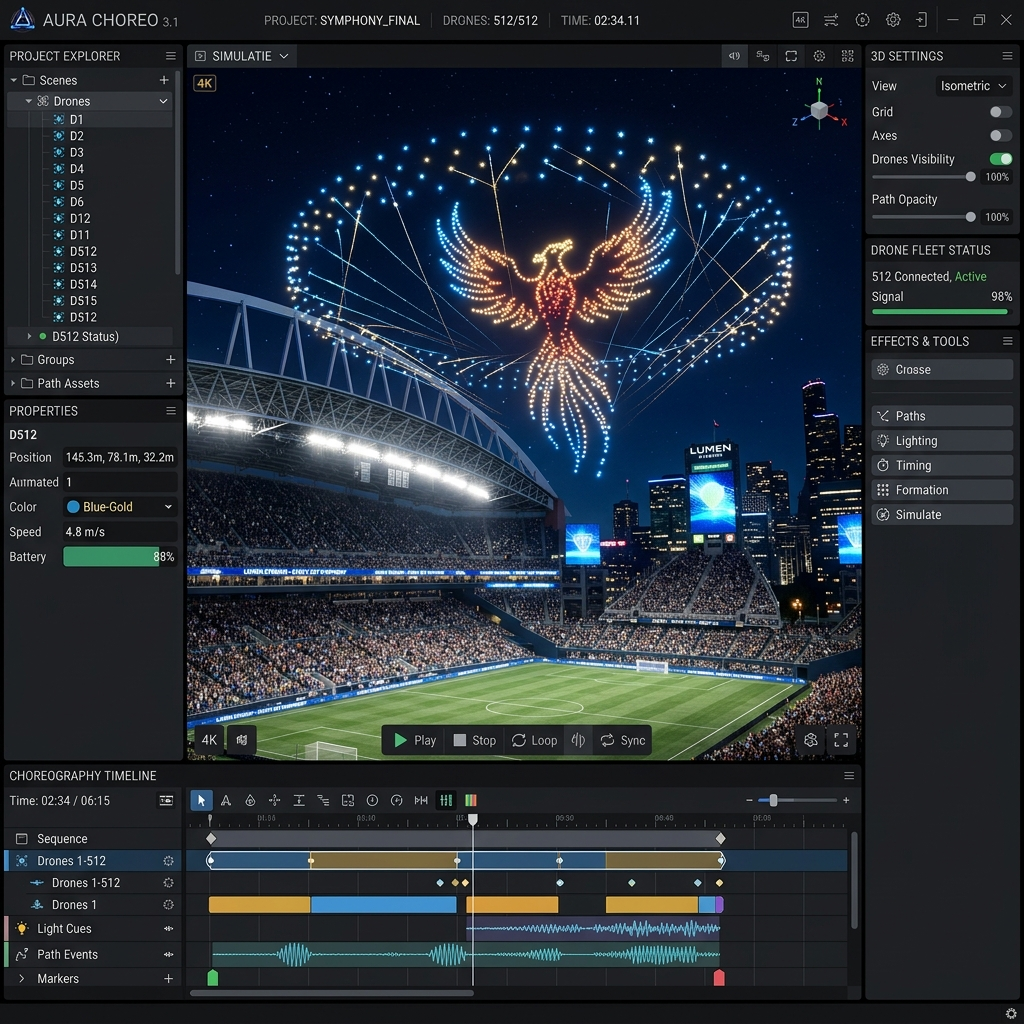
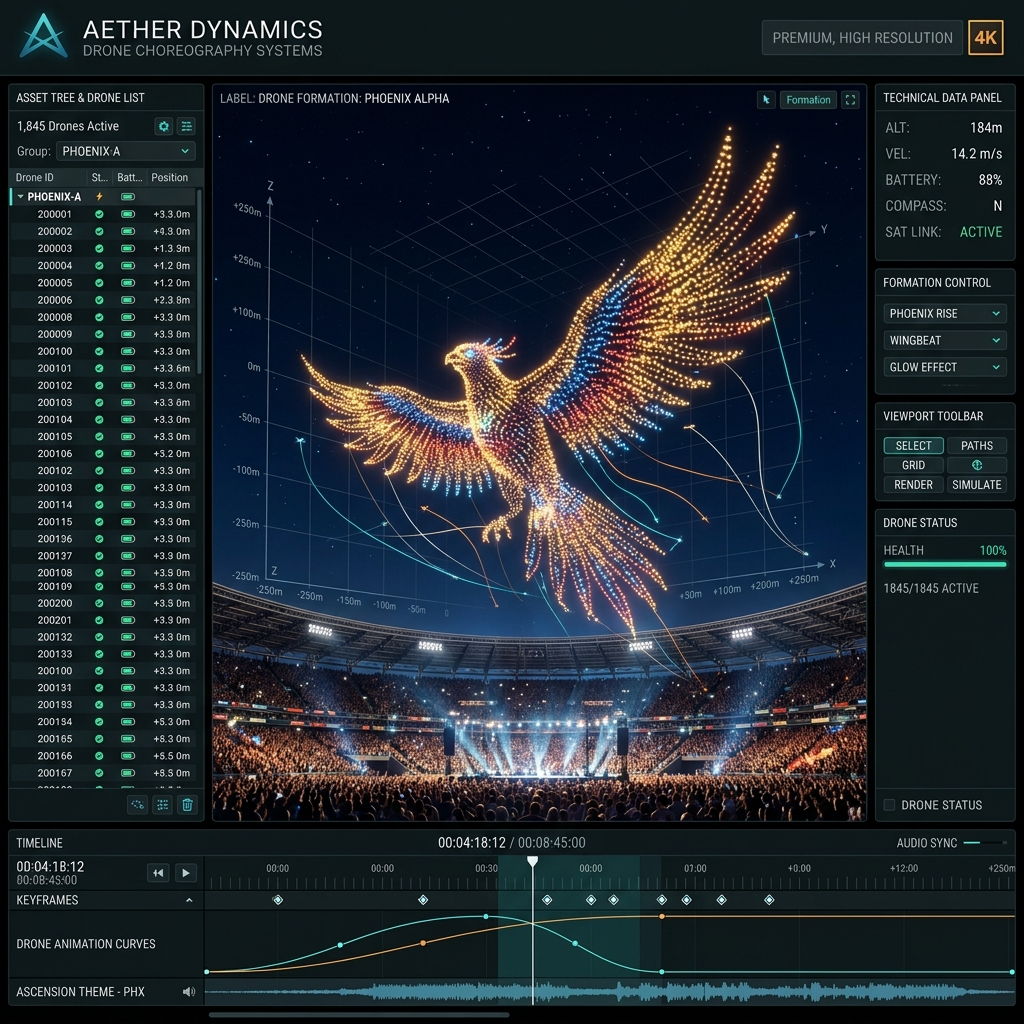
4

diff --git a/index-2.html b/index-2.html
@@ -207,29 +207,8 @@
                     <p class="text-gray-400 mb-12 max-w-2xl mx-auto">See exactly what your audience will see. We provide frame-by-frame 3D renders before a single drone takes flight.</p>
                 </div>
                 
-                <div class="glass-card rounded-3xl p-6 md:p-10 max-w-4xl mx-auto relative overflow-hidden group order-1 md:order-2 mb-12 md:mb-0">
-                    <div class="absolute inset-0 z-0">
-                        <img src="assets/images/simulation-ui.png" alt="Simulation UI" class="w-full h-full object-cover opacity-60 group-hover:scale-105 transition-transform duration-1000">
-                        <div class="absolute inset-0 bg-gradient-to-t from-[#050508] via-transparent to-transparent"></div>
-                    </div>
-                    <div class="relative z-10 grid grid-cols-2 md:grid-cols-4 gap-4 mt-32 md:mt-48">
-                        <div class="glass-panel p-4 rounded-xl border border-white/10 backdrop-blur-md reveal">
-                            <div class="text-[#00f0ff] font-bold text-lg mb-1">99.9%</div>
-                            <div class="text-xs text-gray-400 uppercase tracking-widest">Accuracy</div>
-                        </div>
-                        <div class="glass-panel p-4 rounded-xl border border-white/10 backdrop-blur-md reveal" style="transition-delay: 100ms;">
-                            <div class="text-[#8a2be2] font-bold text-lg mb-1">4K</div>
-                            <div class="text-xs text-gray-400 uppercase tracking-widest">Resolution</div>
-                        </div>
-                        <div class="glass-panel p-4 rounded-xl border border-white/10 backdrop-blur-md reveal" style="transition-delay: 200ms;">
-                            <div class="text-[#ff00ff] font-bold text-lg mb-1">Real-time</div>
-                            <div class="text-xs text-gray-400 uppercase tracking-widest">Latency</div>
-                        </div>
-                        <div class="glass-panel p-4 rounded-xl border border-white/10 backdrop-blur-md reveal" style="transition-delay: 300ms;">
-                            <div class="text-white font-bold text-lg mb-1">Infinite</div>
-                            <div class="text-xs text-gray-400 uppercase tracking-widest">Replays</div>
-                        </div>
-                    </div>
+                <div class="glass-card rounded-3xl p-2 max-w-4xl mx-auto relative overflow-hidden group order-1 md:order-2 mb-12 md:mb-0 shadow-[0_0_50px_rgba(0,240,255,0.15)] border border-white/10">
+                    <img src="assets/images/simulation-ui.png" alt="Simulation UI" class="w-full rounded-2xl object-cover hover:scale-105 transition-transform duration-1000">
                 </div>
             </div>
         </section>
@@ -274,6 +253,38 @@
                             <h4 class="text-xl font-bold mb-3 text-white">4K Simulation Previews</h4>
                             <p class="text-gray-500 text-sm">We provide high-fidelity 4K 3D renders of the show during the design phase, giving stakeholders a pixel-perfect preview of the final performance.</p>
                         </div>
+                    </div>
+                </div>
+            </div>
+        </section>
+
+        <!-- New: Pure Text Content Section -->
+        <section class="py-24 relative z-10 bg-[#07070a]">
+            <div class="container mx-auto px-6 max-w-4xl text-center">
+                <div class="reveal">
+                    <h2 class="text-3xl md:text-5xl font-bold mb-8 text-center">A New Medium for <span class="text-gradient">Global Brands</span></h2>
+                    <div class="space-y-6 text-gray-300 text-lg leading-relaxed">
+                        <p>
+                            In an era of digital saturation, where traditional advertising is often ignored, the sky remains the last frontier for truly unmissable marketing. Our enterprise drone shows provide a unique opportunity for brands to capture the collective attention of entire cities, creating shared experiences that resonate far longer than any screen-based advertisement. 
+                        </p>
+                        <p>
+                            By integrating our massive drone fleets with your existing brand identity, we transform corporate logos and messaging into monumental sky-sculptures. This is not just about visibility; it's about association with innovation, scale, and technological leadership. When a brand takes over the night sky, it isn't just advertising—it's performing a civic service of wonder.
+                        </p>
+                        <div class="py-8 border-y border-white/10 my-8">
+                            <div class="grid grid-cols-1 md:grid-cols-2 gap-12">
+                                <div>
+                                    <h4 class="text-[#8a2be2] font-bold mb-3 uppercase tracking-widest text-sm">Audience Engagement</h4>
+                                    <p class="text-sm text-gray-500">Our shows generate 400% more social media impressions compared to traditional billboards, with audiences actively filming and sharing the experience in real-time.</p>
+                                </div>
+                                <div>
+                                    <h4 class="text-[#00f0ff] font-bold mb-3 uppercase tracking-widest text-sm">Strategic Placement</h4>
+                                    <p class="text-sm text-gray-500">We specialize in launching near major landmarks and during peak foot-traffic hours, ensuring your brand story reaches the maximum number of high-value spectators.</p>
+                                </div>
+                            </div>
+                        </div>
+                        <p>
+                            AeroGlow's enterprise division works directly with CMOs and event agencies to ensure that every flight aligns with global marketing objectives. We handle the entire lifecycle—from the first conceptual sketch and regulatory clearance to the final flight and post-event analytics—allowing you to focus on the impact, while we handle the complexity.
+                        </p>
                     </div>
                 </div>
             </div>

diff --git a/assets/css/style.css b/assets/css/style.css
@@ -34,10 +34,15 @@ body {
 
 /* Glassmorphism Classes */
 .glass-panel {
-    background: var(--glass-bg);
-    backdrop-filter: blur(12px);
-    -webkit-backdrop-filter: blur(12px);
+    background: rgba(10, 10, 15, 0.85);
+    backdrop-filter: blur(16px);
+    -webkit-backdrop-filter: blur(16px);
     border: 1px solid var(--glass-border);
+}
+
+#mobile-menu.glass-panel {
+    background: rgba(5, 5, 8, 0.98);
+    backdrop-filter: blur(20px);
 }
 
 .glass-card {
@@ -193,16 +198,44 @@ html.light-mode .bg-\[\#0a0a0d\],
 html.light-mode .bg-\[\#020205\],
 html.light-mode .bg-\[\#050508\],
 html.light-mode .bg-\[\#07070a\],
+html.light-mode .bg-\[\#0d0d12\],
 html.light-mode .bg-black {
     background-color: #ffffff !important;
 }
 
+/* Gradient Overrides for Light Mode */
+html.light-mode .from-\[\#0a0a0d\],
+html.light-mode .from-\[\#050508\],
+html.light-mode .from-\[\#07070a\],
+html.light-mode .from-\[\#020205\],
+html.light-mode .from-black,
+html.light-mode .from-black\/80 {
+    --tw-gradient-from: #ffffff !important;
+    --tw-gradient-to: rgba(255, 255, 255, 0) !important;
+    --tw-gradient-stops: var(--tw-gradient-from), var(--tw-gradient-to) !important;
+}
+
+html.light-mode .via-transparent {
+    --tw-gradient-to: rgba(255, 255, 255, 0) !important;
+    --tw-gradient-stops: var(--tw-gradient-from), rgba(255, 255, 255, 0.5), var(--tw-gradient-to) !important;
+}
+
+html.light-mode .bg-white\/5,
 html.light-mode .bg-\[\#020205\]\/80,
 html.light-mode .bg-\[\#050508\]\/80,
 html.light-mode .bg-black\/80,
 html.light-mode .bg-black\/60,
+html.light-mode .bg-black\/40,
+html.light-mode .bg-black\/20,
 html.light-mode header.sticky {
     background-color: rgba(255, 255, 255, 0.8) !important;
+    color: #111 !important;
+}
+
+html.light-mode .bg-white\/5 i,
+html.light-mode .bg-black\/50 i,
+html.light-mode .bg-white\/5 span,
+html.light-mode .bg-black\/50 span {
     color: #111 !important;
 }
 
@@ -210,6 +243,11 @@ html.light-mode .bg-gray-900,
 html.light-mode .bg-gray-800,
 html.light-mode .bg-gray-700 {
     background-color: #f0f0f5 !important;
+}
+
+html.light-mode .aspect-video img,
+html.light-mode .aspect-square img {
+    opacity: 0.3 !important;
 }
 
 html.light-mode .border-white\/5,
@@ -221,6 +259,12 @@ html.light-mode .border-white\/20 {
 html.light-mode .bg-white\/5,
 html.light-mode .bg-white\/10 {
     background-color: rgba(0, 0, 0, 0.05) !important;
+}
+
+html.light-mode .hover\:bg-white\/5:hover,
+html.light-mode .hover\:bg-white\/10:hover,
+html.light-mode .hover\:bg-white\/20:hover {
+    background-color: rgba(0, 0, 0, 0.1) !important;
 }
 
 html.light-mode input,
@@ -330,8 +374,27 @@ html.light-mode .glass-panel a {
     color: #444 !important;
 }
 
+html.light-mode .glass-panel a.active,
 html.light-mode .glass-panel a:hover {
-    color: #000 !important;
+    color: #006699 !important;
+}
+
+html.light-mode .glass-panel a.active {
+    background: linear-gradient(90deg, rgba(0, 152, 204, 0.1), transparent);
+    border-left: 3px solid #006699;
+    padding-left: 1.5rem !important;
+    font-weight: 600;
+}
+
+/* Home 2 specific active color in light mode */
+html.light-mode .glass-panel a.active[href*="index-2.html"],
+html.light-mode .glass-panel button.active {
+    color: #5b1fac !important;
+}
+
+html.light-mode .glass-panel a.active[href*="index-2.html"] {
+    background: linear-gradient(90deg, rgba(91, 31, 172, 0.1), transparent);
+    border-left: 3px solid #5b1fac;
 }
 
 /* Full Width Layout Overrides */
@@ -346,12 +409,19 @@ html.light-mode .glass-panel a:hover {
 /* Tablet & Mobile Alignment Fixes */
 @media (max-width: 1024px) {
     h1 {
-        font-size: 2.5rem !important;
+        font-size: 2.2rem !important;
         line-height: 1.2 !important;
     }
 
     h2 {
-        font-size: 2rem !important;
+        font-size: 1.75rem !important;
+    }
+
+    /* Extra small screens fix */
+    @media (max-width: 480px) {
+        h1 { font-size: 1.8rem !important; }
+        h2 { font-size: 1.4rem !important; }
+        #page-title { font-size: 1rem !important; }
     }
 
     .container {

diff --git a/index.html b/index.html
@@ -238,6 +238,30 @@
             </div>
         </section>
 
+        <!-- New: Pure Text Content Section -->
+        <section class="py-24 relative z-10 border-b border-white/5">
+            <div class="container mx-auto px-6 max-w-4xl text-center">
+                <div class="reveal">
+                    <h2 class="text-3xl md:text-5xl font-bold mb-8 text-center">The Science of <span class="text-gradient">Synchronization</span></h2>
+                    <div class="space-y-6 text-gray-400 text-lg leading-relaxed">
+                        <p>
+                            Beyond the visual spectacle lies a complex ecosystem of real-time data processing and swarm intelligence. Every drone in our fleet acts as a single pixel in a three-dimensional canvas, communicating with its neighbors at millisecond intervals to ensure perfect synchronization. This isn't just about flying; it's about orchestrating a digital ballet in an environment that is constantly changing.
+                        </p>
+                        <p>
+                            Our proprietary software, <span class="text-white font-semibold">AeroLink™</span>, handles the heavy lifting. It calculates optimal flight paths that account for wind resistance, battery efficiency, and safety buffers. This allows our choreographers to focus on the artistry, knowing that the underlying technology will maintain the integrity of every formation, no matter how complex.
+                        </p>
+                        <blockquote class="border-y border-[#00f0ff]/30 py-8 my-10 italic text-white text-xl md:text-2xl relative">
+                            <i class='bx bxs-quote-left absolute -top-4 left-1/2 -translate-x-1/2 text-3xl text-[#00f0ff]/20'></i>
+                            "We don't just fly drones; we write the physics of the future. The sky is our playground, and light is our code."
+                        </blockquote>
+                        <p>
+                            From the initial storyboard to the final countdown, we prioritize the harmony between the mechanical and the emotional. By understanding the aerodynamic constraints of each aircraft, we can push the boundaries of what is possible, creating fluid transitions that feel more like liquid light than mechanical flight. This deep-tech approach ensures that every AeroGlow performance is not just a show, but a landmark achievement in aerial robotics.
+                        </p>
+                    </div>
+                </div>
+            </div>
+        </section>
+
         <!-- 4. Interactive Drone Choreography Preview -->
         <section id="preview" class="py-24 relative z-10 overflow-hidden">
             <div class="container mx-auto px-6">

diff --git a/assets/js/main.js b/assets/js/main.js
@@ -99,4 +99,48 @@ document.addEventListener('DOMContentLoaded', () => {
             });
         });
     }
+
+    // Active Link Highlighting
+    const highlightActiveLink = () => {
+        const path = window.location.pathname.split('/').pop() || 'index.html';
+        const navLinks = document.querySelectorAll('nav a, #mobile-menu a');
+        const navBtns = document.querySelectorAll('nav button');
+        
+        // Determine theme color based on page or default
+        const isHome2 = path === 'index-2.html' || document.querySelector('.text-\\[\\#8a2be2\\]');
+        const activeColorClass = isHome2 ? 'text-[#8a2be2]' : 'text-[#00f0ff]';
+
+        // Clear all first
+        navLinks.forEach(l => l.classList.remove('text-[#00f0ff]', 'text-[#8a2be2]', 'active'));
+        navBtns.forEach(b => b.classList.remove('text-[#00f0ff]', 'text-[#8a2be2]'));
+
+        let matchFound = false;
+        navLinks.forEach(link => {
+            const href = link.getAttribute('href');
+            if (href === path) {
+                link.classList.add(activeColorClass);
+                link.classList.add('active');
+                matchFound = true;
+                
+                // Dropdown parent highlighting
+                const group = link.closest('.group');
+                if (group) {
+                    const btn = group.querySelector('button');
+                    if (btn) {
+                        btn.classList.add(activeColorClass);
+                        btn.classList.add('active');
+                    }
+                }
+            }
+        });
+
+        // Fallback for details/subpages
+        if (!matchFound) {
+            if (path.includes('blog-details')) {
+                const blogLink = document.querySelector('nav a[href="blog.html"]');
+                if (blogLink) blogLink.classList.add(activeColorClass);
+            }
+        }
+    };
+    highlightActiveLink();
 });

diff --git a/dashboard.html b/dashboard.html
@@ -57,16 +57,16 @@
     <div id="sidebar-overlay" class="fixed inset-0 bg-black/60 z-40 hidden lg:hidden"></div>
 
     <!-- Main Content -->
-    <main class="flex-1 overflow-y-auto relative h-full">
+    <main class="flex-1 overflow-y-auto overflow-x-hidden relative h-full">
         <!-- Minimal header for main area -->
         <header class="h-20 flex items-center justify-between px-4 md:px-8 border-b border-white/5 sticky top-0 bg-[#020205]/80 backdrop-blur-md z-10">
-            <div class="flex items-center gap-4">
-                <button id="sidebar-toggle" class="lg:hidden text-2xl p-2 rounded-lg hover:bg-white/5 transition">
+            <div class="flex items-center gap-2 md:gap-4 flex-shrink min-w-0">
+                <button id="sidebar-toggle" class="lg:hidden text-2xl p-2 rounded-lg hover:bg-white/5 transition flex-shrink-0">
                     <i class='bx bx-menu'></i>
                 </button>
-                <h2 id="page-title" class="text-lg md:text-xl font-bold">Dashboard Overview</h2>
+                <h2 id="page-title" class="text-sm md:text-xl font-bold truncate">Dashboard Overview</h2>
             </div>
-            <div class="flex items-center gap-4">
+            <div class="flex items-center gap-2 md:gap-4 flex-shrink-0">
                 <button id="theme-toggle" class="p-2 rounded-full hover:bg-white/10 transition" aria-label="Toggle Theme">
                     <i class='bx bx-moon text-xl'></i>
                 </button>
